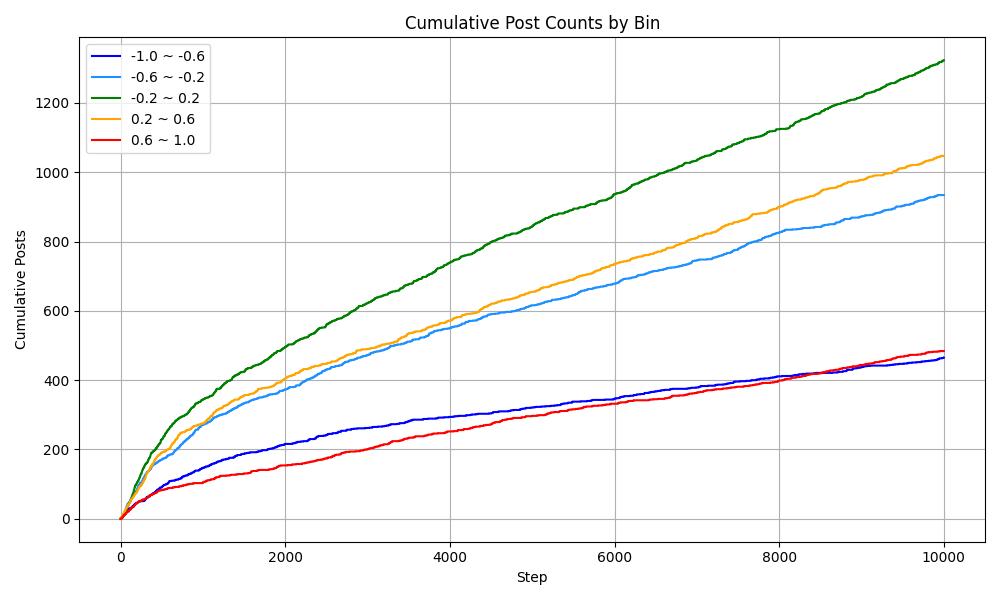
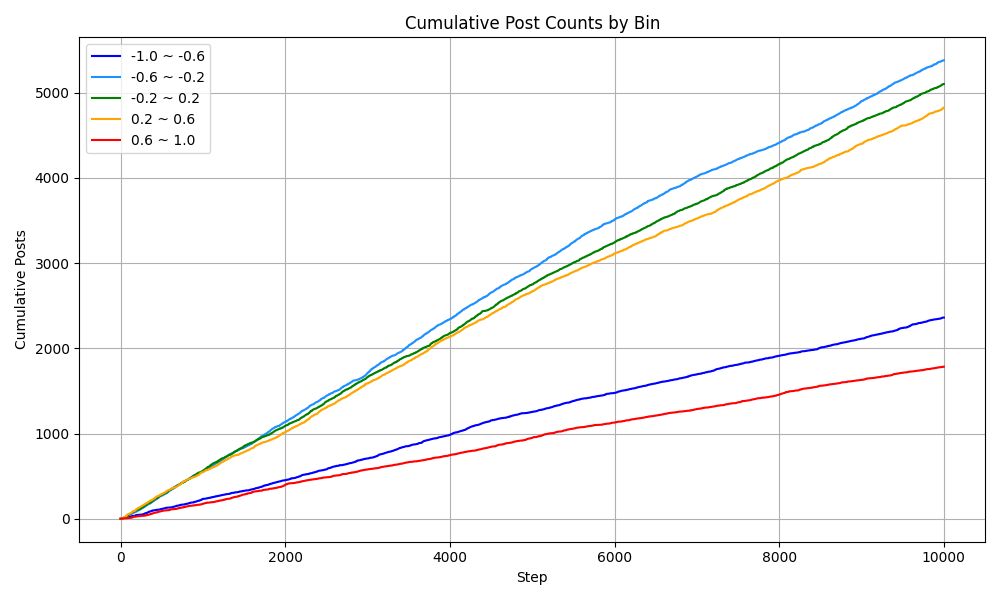
refactaring

diff --git a/src/admin/AdminOptim.java b/src/admin/AdminOptim.java
@@ -18,12 +18,12 @@ public class AdminOptim {
     }
 
     public double[][] getAdjacencyMatrix() {
-        return this.W;
+        return this.W.clone();
     }
 
     public void setW(double[][] W) {
         this.W = W.clone();
-        setFollowerNumArray(W);
+        setFollowerNumArray();
     }
 
     public void addRecommendPost(Post post) {
@@ -33,11 +33,11 @@ public class AdminOptim {
         recommendPostQueue.add(post); // 新しい投稿を追加
     }
 
-    public void setFollowerNumArray(double[][] adjacencyMatrix) {
+    public void setFollowerNumArray() {
         Arrays.fill(this.followerNumArray, 0);
         for (int i = 0; i < n; i++) {
             for (int j = 0; j < n; j++) {
-                if (adjacencyMatrix[i][j] > 0.0) {
+                if (this.W[i][j] > 0.0) {
                     this.followerNumArray[j]++;
                 }
             }
@@ -70,7 +70,10 @@ public class AdminOptim {
 
     public void updateAdjacencyMatrix(int userId, int likedId, int followedId, int unfollowedId) {
         if (likedId > 0) {
-            this.W[userId][likedId] += Const.LIKE_INCREASE_WEIGHT;
+            // フォローしていないユーザに対するいいねは無視
+            if(this.W[userId][likedId] > 0.0){
+                this.W[userId][likedId] += Const.LIKE_INCREASE_WEIGHT;
+            }
             // this.W[userId][likedId] = 1.01 * this.W[userId][likedId];
             // System.out.println("increased weight : " + this.W[userId][likedId]);
         }
@@ -81,32 +84,12 @@ public class AdminOptim {
             this.W[userId][unfollowedId] = 0.0;
         }
 
-        // preferenciality algorithm
-        // follower数が多い人についてwの値を水増し
-        /*
-         * List<Integer> followedUsers = new ArrayList<>();
-         * for (int j = 0; j < n; j++) {
-         * if (this.W[userId][j] > 0.1) {
-         * followedUsers.add(j);
-         * }
-         * 
-         * // フォロワー数に基づいて降順にソート
-         * followedUsers.sort((a, b) -> Integer.compare(followerNumArray[b],
-         * followerNumArray[a]));
-         * 
-         * // 上位3人に対してWを増加
-         * int topK = Math.min(1, followedUsers.size());
-         * for (int i = 0; i < topK; i++) {
-         * int targetId = followedUsers.get(i);
-         * this.W[userId][targetId] = 1.001 * this.W[userId][targetId];
-         * }
-         * }
-         */
-
         double rowSum = 0.0;
         for (int j = 0; j < n; j++) {
             if (this.W[userId][j] > 0.5) {
                 this.W[userId][j] = 0.5;
+            }else if(this.W[userId][j] < 0.0){
+                this.W[userId][j] = 0.0;
             }
             rowSum += this.W[userId][j];
         }
@@ -115,7 +98,7 @@ public class AdminOptim {
                 this.W[userId][j] /= rowSum;
             }
         }
-        setFollowerNumArray(W);
+        setFollowerNumArray();
     }
 
     // あるユーザのfeed配列(閲覧投稿数の上限)を決定する関数
@@ -123,7 +106,7 @@ public class AdminOptim {
         // iにとってfeed[j]はjの投稿を閲覧できる上限
         // これをW行列から算出する
         int postNum = agentSet[userId].getNumOfPosts(); // ユーザが一度の閲覧で消費する投稿数の上限
-        int friendPostNum = (int) Math.round(postNum * Const.FEED_PREFERENTIALITY_RATE);
+        int friendPostNum = (int) Math.round(postNum * (1 - Const.FEED_PREFERENTIALITY_RATE));
         int recommendPostNum = postNum - friendPostNum;
         if (recommendPostQueue.size() < recommendPostNum) {
             friendPostNum = friendPostNum + recommendPostNum;
@@ -134,6 +117,12 @@ public class AdminOptim {
         int[] maxPostNumArray = new int[this.n];
         for (int i = 0; i < n; i++) {
             maxPostNumArray[i] = (int) Math.round(this.W[userId][i] * friendPostNum);
+            if(userId == 80){
+                for (int j = 0; j < this.n; j++) {
+                    //System.out.println("max post array : " + maxPostNumArray[j]);
+                }
+                //System.out.println("W and friedn num " + W[userId][136] + ", "+ friendPostNum);
+            }
         }
         for (Post post : agentSet[userId].getPostCash().getAllPosts()) {
             if (maxPostNumArray[post.getPostUserId()] > 0) {
@@ -145,7 +134,8 @@ public class AdminOptim {
         // add recommendation posts to user's feeds
         // いいねが集まってるやつとか、フォロワーが多い人のとか
         int temp = 0;
-        if (recommendPostQueue.size() == 0) {
+        int recommended = 0;
+        if (recommendPostQueue.isEmpty()) {
             return;
         }
         for (int i = recommendPostQueue.size() - 1; i >= 0 && temp < recommendPostNum; i--) {
@@ -153,12 +143,20 @@ public class AdminOptim {
                 continue;
             }
             agentSet[userId].addPostToFeed(recommendPostQueue.get(i));
+            recommended++;
             temp++;
         }
 
         if(postNum - agentSet[userId].getFeed().size() > 10){
+            for (int i = recommendPostQueue.size() - recommended - 1; i >= 0; i--) {
+                if(recommendPostQueue.get(i).getPostUserId() == userId){
+                    continue;
+                }
+                agentSet[userId].addPostToFeed(recommendPostQueue.get(i));
+            }
+        }
+        if(postNum - agentSet[userId].getFeed().size() > 10){
             System.out.println("size underflow !!");
         }
-
     }
 }

diff --git a/src/agent/Agent.java b/src/agent/Agent.java
@@ -1,9 +1,7 @@
 package agent;
 
 import constants.Const;
-import java.util.ArrayList;
-import java.util.List;
-import java.util.Random;
+import java.util.*;
 import rand.randomGenerater;
 
 public class Agent {
@@ -26,6 +24,7 @@ public class Agent {
     private boolean traitor = false;
     private int timeStep;
     private boolean[] followList = new boolean[NUM_OF_AGENTS];
+    private Set<Integer> alreadyAddedPostIds = new HashSet<>();
 
     // constructor
     public Agent(int agentID) {
@@ -43,7 +42,7 @@ public class Agent {
         this.followRate = Const.INITIAL_FOLLOW_RATE;
         this.unfollowRate = Const.INITIAL_UNFOLLOW_RATE;
         this.timeStep = 0;
-        setNumOfPosts(rand.nextInt(70)+30);
+        setNumOfPosts(rand.nextInt(10) + 10);
         /*
          * if(0.1 > rand.nextDouble()){
          * this.traitor = true;
@@ -106,7 +105,7 @@ public class Agent {
         return this.unfollowRate;
     }
 
-    public PostCash getPostCash(){
+    public PostCash getPostCash() {
         return this.postCash;
     }
 
@@ -116,7 +115,7 @@ public class Agent {
         this.opinion = value;
     }
 
-    public void setTimeStep(int time){
+    public void setTimeStep(int time) {
         this.timeStep = time;
     }
 
@@ -148,7 +147,9 @@ public class Agent {
     }
 
     public void addToPostCash(Post post) {
-        this.postCash.addPost(post);
+        if (!this.alreadyAddedPostIds.contains(post.getPostId())) {
+            this.postCash.addPost(post);
+        }
     }
 
     // other methods
@@ -157,20 +158,22 @@ public class Agent {
         this.toPost = 0;
     }
 
-    public void addPostToFeed(Post post){
-        this.feed.add(post);
+    public void addPostToFeed(Post post) {
+        if (!this.alreadyAddedPostIds.contains(post.getPostId())) {
+            this.feed.add(post);
+        }
     }
 
-    public void resetFeed(){
+    public void resetFeed() {
         this.feed.clear();
     }
 
-    public void updateFollowList(double[][] adjacencyMatrix){
-        for(int i = 0; i < adjacencyMatrix.length; i++){
-            for(int j = 0; j < adjacencyMatrix.length; j++){
-                if(adjacencyMatrix[i][j] > 0.0){
+    public void updateFollowList(double[][] adjacencyMatrix) {
+        for (int i = 0; i < adjacencyMatrix.length; i++) {
+            for (int j = 0; j < adjacencyMatrix.length; j++) {
+                if (adjacencyMatrix[i][j] > 0.0) {
                     this.followList[j] = true;
-                }else{
+                } else {
                     this.followList[j] = false;
                 }
             }
@@ -184,23 +187,24 @@ public class Agent {
         int comfortPostNum = 0;
         // feedに表示される投稿は全て閲覧する
         for (Post post : this.feed) {
-                temp += post.getPostOpinion();
-                postNum++;
-                if (Math.abs(post.getPostOpinion() - this.opinion) < Const.MINIMUM_BC) {
-                    comfortPostNum++;
-                }
+            temp += post.getPostOpinion();
+            postNum++;
+            if (Math.abs(post.getPostOpinion() - this.opinion) < Const.MINIMUM_BC) {
+                comfortPostNum++;
+            }
         }
 
         if (postNum == 0)
             return;
 
         double comfortPostRate = (double) comfortPostNum / postNum;
+
         if (comfortPostRate > Const.COMFORT_RATE) {
             this.postProb += 0.01 * decayFunc(this.timeStep);
             this.mediaUseRate += 0.01 * decayFunc(this.timeStep);
         } else {
-            this.postProb -= 0.001 * decayFunc(this.timeStep);
-            this.mediaUseRate -= 0.001 * decayFunc(this.timeStep);
+            //this.postProb -= 0.0001 * decayFunc(this.timeStep);
+            //this.mediaUseRate -= 0.0001 * decayFunc(this.timeStep);
         }
 
         this.opinion = this.tolerance * this.intrinsicOpinion + (1 - this.tolerance) * (temp / postNum);
@@ -253,19 +257,23 @@ public class Agent {
     }
 
     public int follow(List<Post> latestPostList) {
-        if(this.followRate < rand.nextDouble()){
+        if(this.followList.length == 0){
+            return rand.nextInt(NUM_OF_AGENTS);
+        }
+        if (this.followRate < rand.nextDouble()) {
             return -1;
         }
 
         List<Integer> candidates = new ArrayList<>();
-        for(Post post : latestPostList){
-            if(Math.abs(post.getPostOpinion() - this.opinion) < Const.MINIMUM_BC && this.id != post.getPostUserId() && !followList[post.getPostUserId()]){
+        for (Post post : latestPostList) {
+            if (Math.abs(post.getPostOpinion() - this.opinion) < Const.MINIMUM_BC && this.id != post.getPostUserId()
+                    && !followList[post.getPostUserId()]) {
                 candidates.add(post.getPostUserId());
             }
         }
-        if(!candidates.isEmpty()){
+        if (!candidates.isEmpty()) {
             return candidates.get(rand.nextInt(candidates.size()));
-        }else{
+        } else {
             return -1;
         }
     }
@@ -305,7 +313,7 @@ public class Agent {
         return post;
     }
 
-    public double decayFunc(double time){
+    public double decayFunc(double time) {
         double lambda = 0.001;
         return Math.exp(-lambda * time);
         //return 1;

diff --git a/src/analysis/AssertionCheck.java b/src/analysis/AssertionCheck.java
@@ -1,5 +1,6 @@
 package analysis;
 
+import admin.*;
 import agent.Agent;
 import network.*;
 
@@ -18,8 +19,8 @@ public class AssertionCheck {
         this.maxStep = maxStep;
     }
 
-    public void assertionChecker(Agent[] agentSet, Network network, int agentNum, int step) {
-        double[][] tempAdjMatrix = network.getAdjacencyMatrix();
+    public void assertionChecker(Agent[] agentSet, AdminOptim admin, int agentNum, int step) {
+        double[][] tempAdjMatrix = admin.getAdjacencyMatrix();
         // w行列の行方向の和は常に1.0
         for (int i = 0; i < n; i++) {
             double temp = 0;
@@ -32,7 +33,7 @@ public class AssertionCheck {
                 temp += tempAdjMatrix[i][j];
                 //System.out.println(temp);
             }
-            if(Math.abs(temp - 1.0) > 0.1){
+            if(Math.abs(temp - 1.0) > 0.1 && Math.abs(temp - 0.0 ) > 0.1){
                 System.out.println("AC Error: sum of the row is not equal to 1 in node " + i);
             }
         }

diff --git a/src/dynamics/OpinionDynamics.java b/src/dynamics/OpinionDynamics.java
@@ -1,5 +1,6 @@
 package dynamics;
 
+import admin.*;
 import agent.*;
 import analysis.*;
 import constants.Const;
@@ -11,8 +12,6 @@ import java.util.HashSet;
 import java.util.List;
 import java.util.Random;
 import java.util.Set;
-
-import admin.*;
 import network.*;
 import rand.randomGenerater;
 import writer.Writer;
@@ -160,7 +159,7 @@ public class OpinionDynamics {
                 agent.updateFollowList(admin.getAdjacencyMatrix());
                 agent.resetPostCash();
                 agent.resetFeed();
-                ASChecker.assertionChecker(agentSet, network, agentNum, step);
+                ASChecker.assertionChecker(agentSet, admin, agentNum, step);
                 if (followedId > 0) {
                     followActionNum++;
                 }

diff --git a/src/agent/Post.java b/src/agent/Post.java
@@ -5,12 +5,15 @@ public class Post {
     private double postOpinion;
     private int postedStep;
     private int receivedLike;
+    private final int postId;
+    private static int postIdCounter = 0;
 
     public Post(int postUserId, double postOpinion, int postedStep){
         this.postUserId = postUserId;
         this.postOpinion = postOpinion;
         this.postedStep = postedStep;
         this.receivedLike = 0;
+        this.postId = postIdCounter++;
     }
 
     // Getter
@@ -28,6 +31,10 @@ public class Post {
 
     public int getReceivedLike(){
         return this.receivedLike;
+    }
+
+    public int getPostId(){
+        return this.postId;
     }
 
     // Setter

diff --git a/src/network/ConnectingNearestNeighborNetwork.java b/src/network/ConnectingNearestNeighborNetwork.java
@@ -38,7 +38,7 @@ public class ConnectingNearestNeighborNetwork extends Network {
 
     @Override
     public void makeNetwork(Agent[] agentSet) {
-        int seedNodes = Math.min(10, getSize()); // 最初に作るノード数
+        int seedNodes = Math.min(50, getSize()); // 最初に作るノード数
         int currentSize = seedNodes;
 
         // 初期ノード間をランダムに接続

diff --git a/src/constants/Const.java b/src/constants/Const.java
@@ -5,7 +5,7 @@ public class Const {
     public static final int MAX_SIMULATION_STEP = 10000;
     public static final int NUM_OF_USER = 200;
     public static final int NUM_OF_SNS_USER = NUM_OF_USER;
-    public static final int RANDOM_SEED = 5;
+    public static final int RANDOM_SEED = 1;
 
     // Admin feedback parameter
     // public static final double FEEDBACK_INCREASE_WEIGHT = 0.1;
